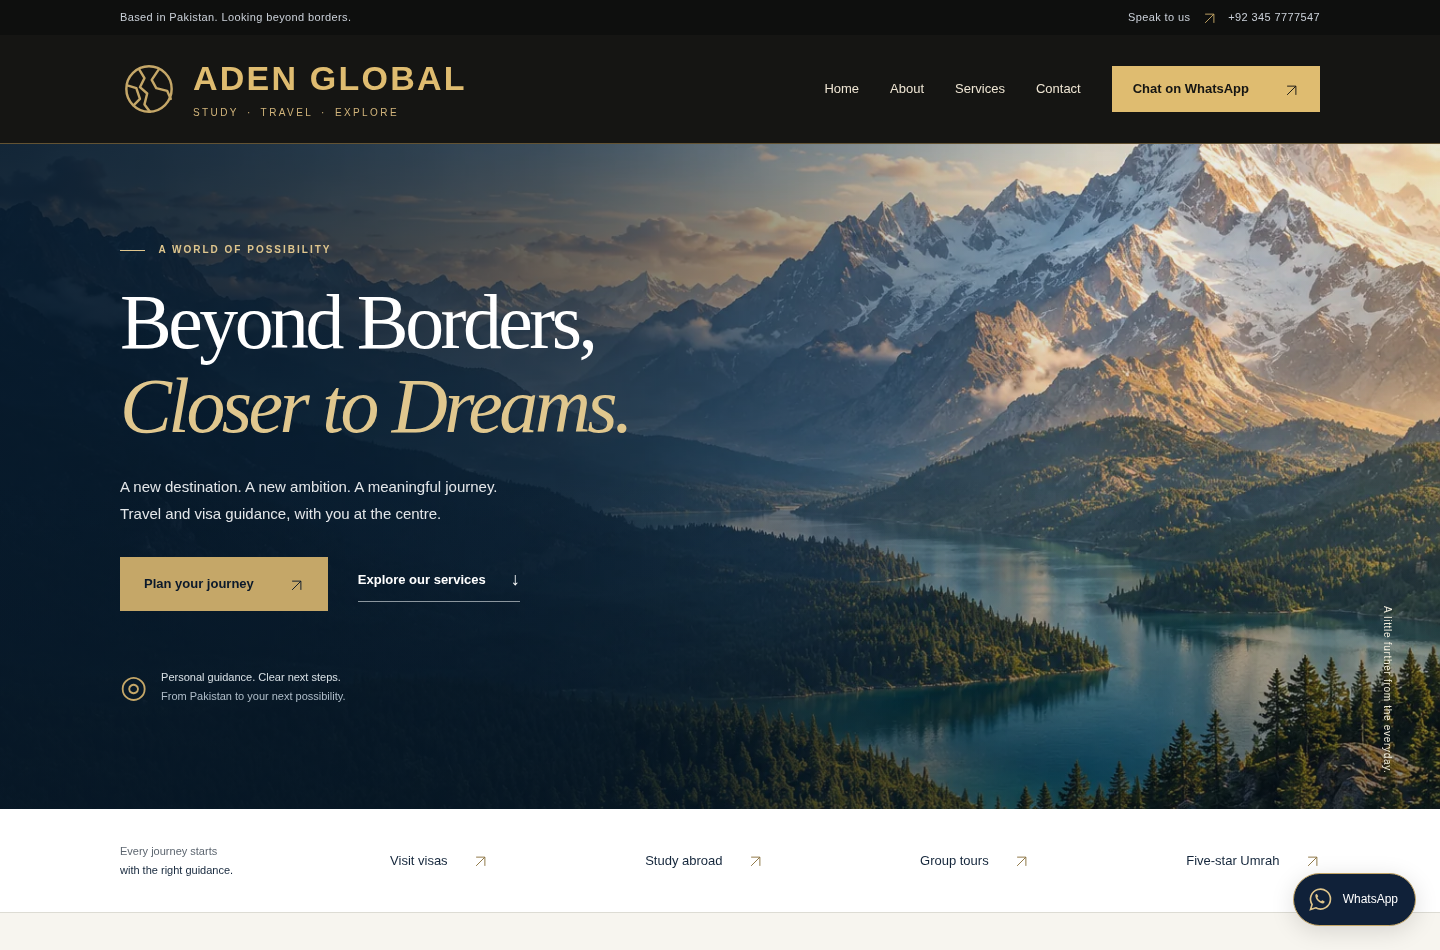
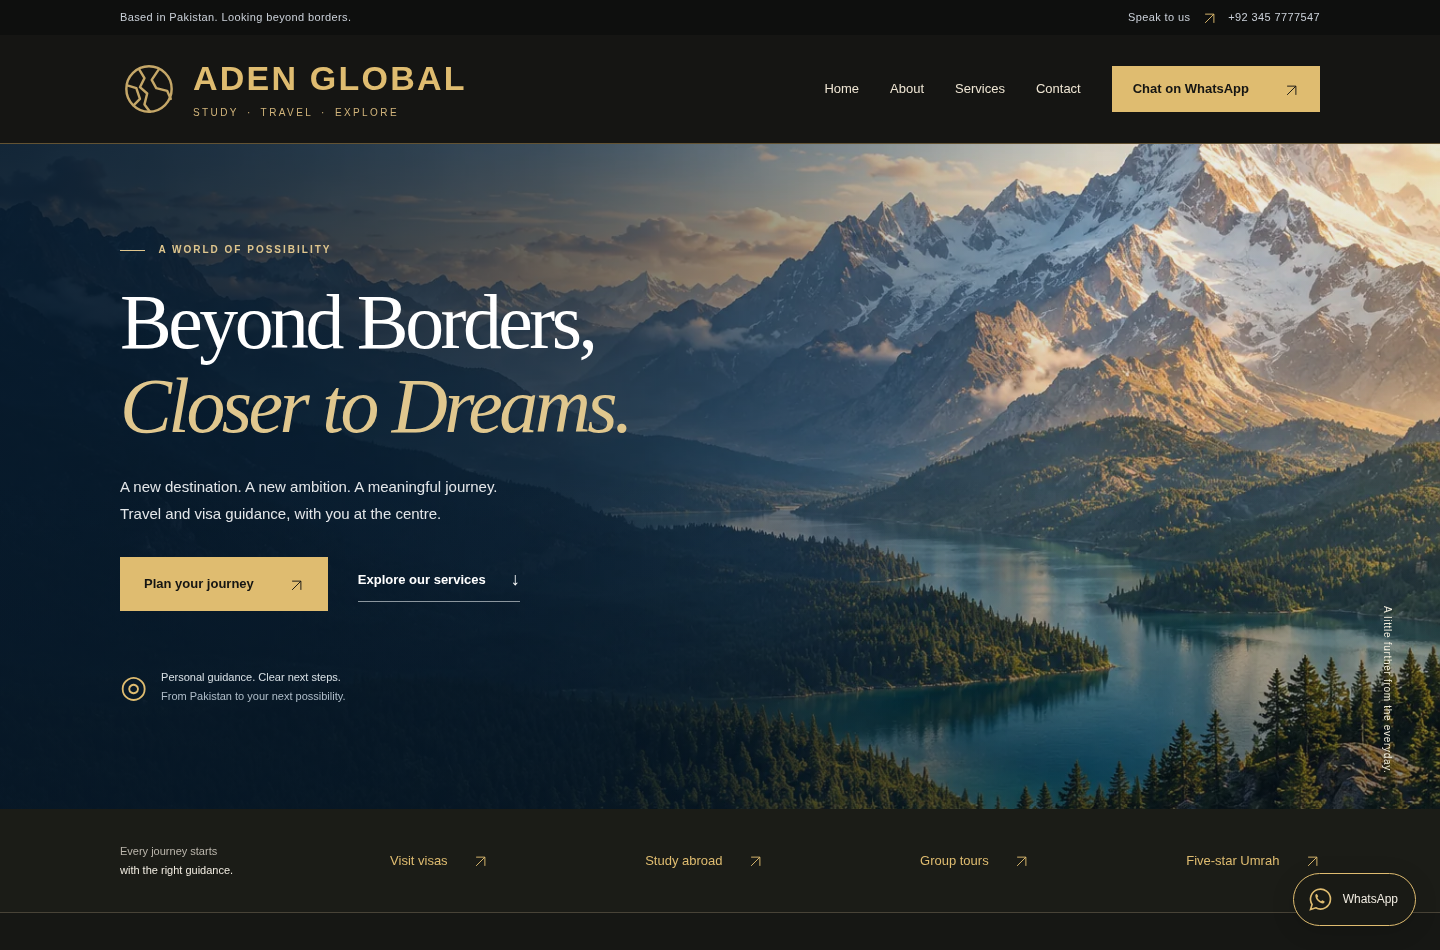
Apply consistent black and gold theme across services and lower sections

Changed region(s): [[0.0, 0.8242, 1.0, 1.0], [0.0625, 0.58, 0.25, 0.6411]]

diff --git a/artifacts/adenglobal-preview.html b/artifacts/adenglobal-preview.html
@@ -26,6 +26,96 @@
 @media(max-width:1000px){.header-inner{height:90px;gap:15px}.header .brand>span{font-size:29px}.header .brand img{width:50px;height:50px}.menu-toggle{display:flex;flex-shrink:0;flex-direction:column;justify-content:center;gap:6px;width:44px;height:44px;background:transparent;border:1px solid #8b7445;padding:11px}.menu-toggle span{height:1px;width:20px;background:#dfbc70;transition:transform .2s}.menu-toggle[aria-expanded=true] span:first-child{transform:translateY(3.5px) rotate(45deg)}.menu-toggle[aria-expanded=true] span:last-child{transform:translateY(-3.5px) rotate(-45deg)}.header nav{display:none;position:absolute;top:90px;left:0;right:0;padding:18px 20px 24px;background:#151513;border-bottom:1px solid #635333;box-shadow:0 12px 18px #0003}.header nav.is-open{display:flex;flex-direction:column;align-items:stretch;gap:6px}.header nav>a:not(.button){padding:12px}.header nav .button{margin-top:7px}.no-js .header-inner{height:auto;flex-wrap:wrap;padding-top:15px}.no-js .header nav{position:static;display:flex;flex-wrap:wrap;padding:10px 0;box-shadow:none;border:0;gap:16px}.no-js .header nav .button{display:none}}
 @media(max-width:560px){.header-inner{height:86px;gap:12px}.header nav{top:86px}.header .brand{gap:11px}.header .brand img{width:43px;height:43px}.header .brand>span{font-size:25px;letter-spacing:.035em}.header .brand small{font-size:8px;letter-spacing:.12em;margin-top:7px}.hero h1{font-size:clamp(36px,10.6vw,49px)}}
 @media(max-width:370px){.header .brand{gap:8px}.header .brand img{width:34px;height:34px}.header .brand>span{font-size:21px}.header .brand small{font-size:7px;letter-spacing:.07em}.header-inner{gap:10px}.hero h1{font-size:36px}}
+/* Shared black-and-gold theme: all lower sections use the same brand palette. */
+:root {
+  --navy: #181815;
+  --deep: #10110f;
+  --gold: #dfbc70;
+  --cream: #161714;
+  --ink: #f1ece1;
+  --muted: #bbb6ac;
+  --line: #484337;
+  --white: #1e1f1a;
+  --surface: #22231d;
+}
+body { color-scheme: dark; }
+:focus-visible { outline-color: #f0d395; }
+::selection { background: #dfbc70; color: #151513; }
+.skip-link { background: #dfbc70; color: #151513; }
+.eyebrow, h2 em, .detail-index { color: var(--gold); }
+.section-heading > p,
+.about-copy > p:not(.eyebrow),
+.service-detail > div > p,
+.faq-grid > div > p:not(.eyebrow),
+.contact-copy > p:not(.eyebrow) { color: var(--muted); }
+.button { background: var(--gold); border-color: var(--gold); color: #151513; }
+.button:hover { background: #f0d395; border-color: #f0d395; }
+.button-gold { background: var(--gold); border-color: var(--gold); }
+.button-gold:hover { background: #f0d395; }
+.text-link { color: var(--gold); border-color: #827044; }
+.text-link:hover { color: #f3dca7; border-color: #f3dca7; }
+.service-strip { background: #1b1c17; border-color: var(--line); }
+.service-strip strong { color: var(--ink); }
+.service-strip a, .service-strip a span { color: var(--gold); }
+.service-strip a:hover { color: #f3dca7; }
+.service-card {
+  background: #1e1f1a;
+  border-color: var(--line);
+  border-top: 2px solid #a78b50;
+}
+.service-card:hover {
+  background: #27271f;
+  border-color: var(--gold);
+  box-shadow: 0 12px 28px #0002;
+}
+.service-icon, .service-card h3, .card-link, .card-link span { color: var(--gold); }
+.card-number { color: #bbb39f; }
+.service-card p { color: var(--muted); }
+.card-link { border-color: var(--line); }
+.card-link:hover { color: #f3dca7; }
+.about-section, .faq-section { background: #1c1d18; }
+.about-art { background: #11120f; border: 1px solid #695a36; }
+.about-art em, .about-art .art-top, .art-bottom { color: var(--gold); }
+.art-bottom { border-color: var(--line); }
+.orbit { border-color: #4b432e; }
+.founder-monogram { color: var(--gold); border-color: #8a7547; }
+.founder small { color: var(--muted); }
+.service-detail h3 { color: var(--gold); }
+.detail-support { background: var(--surface); border-left: 2px solid #a78b50; }
+.detail-support h4 { color: #edcf90; }
+.detail-support li { color: #d0cbc0; }
+.detail-support li:before { color: var(--gold); }
+.detail-support .detail-note { color: var(--muted); border-color: var(--line); }
+.process-section { background: #11120f; border-block: 1px solid var(--line); }
+.process-section h2 em, .process-grid span { color: var(--gold); }
+.process-section .section-heading > p, .process-grid p, .process-footnote { color: var(--muted); }
+.process-grid > div, .process-footnote { border-color: var(--line); }
+.process-grid h3 { color: #edcf90; }
+summary:after { color: var(--gold); }
+summary:hover, details[open] summary { color: #edcf90; }
+.faq-list details p { color: #cbc5b9; }
+.contact-phone, .contact-phone span, .contact-tip > span { color: var(--gold); }
+.contact-meta, .contact-tip p { color: var(--muted); }
+.enquiry-form { background: #1e1f1a; border-color: #71603b; }
+.enquiry-form h3 { color: #edcf90; }
+.form-intro, .field label span, .form-privacy, .form-explainer { color: var(--muted); }
+.field label { color: #f1ece1; }
+.field input, .field select, .field textarea {
+  background: #141511;
+  color: #f1ece1;
+  border-color: #776b50;
+}
+.field input::placeholder, .field textarea::placeholder { color: #aaa596; }
+.field input:focus, .field select:focus, .field textarea:focus { border-color: var(--gold); }
+.form-status { color: #e8d5ae; }
+.form-status a, .enquiry-form noscript a { color: var(--gold); }
+.footer { background: #0e0f0c; color: #e6ddca; border-top: 1px solid var(--line); }
+.footer .brand small { color: var(--gold); }
+.footer-top p, .footer-bottom { color: var(--muted); }
+.footer-bottom { border-color: var(--line); }
+.floating-whatsapp { background: #191a15; color: #f1ece1; border-color: var(--gold); }
+.floating-whatsapp svg { color: var(--gold); }
+.floating-whatsapp:hover { background: #333020; }
 @media(prefers-reduced-motion:reduce){html{scroll-behavior:auto}*,*:before,*:after{transition:none!important;animation:none!important}}
 @media print{.utility,.header,.floating-whatsapp,.hero-actions,.enquiry-form,.footer nav{display:none}.hero{min-height:0;background:white;color:var(--ink)}.hero-image,.hero-caption,.hero:after{display:none}.hero h1 em,.hero-intro,.hero-note,.hero-note strong{color:var(--ink)}.section{padding:25px 0}.container{width:100%}.service-grid{grid-template-columns:repeat(2,1fr)}.about-grid,.contact-grid,.faq-grid{display:block}.about-art{display:none}.process-section{background:white;color:var(--ink)}.process-grid p,.process-section .section-heading>p,.process-footnote{color:var(--ink)}details>p{display:block}.service-detail{break-inside:avoid}.footer{background:white;color:var(--ink);padding:20px 0}}
 </style>

diff --git a/styles.css b/styles.css
@@ -14,5 +14,95 @@
 @media(max-width:1000px){.header-inner{height:90px;gap:15px}.header .brand>span{font-size:29px}.header .brand img{width:50px;height:50px}.menu-toggle{display:flex;flex-shrink:0;flex-direction:column;justify-content:center;gap:6px;width:44px;height:44px;background:transparent;border:1px solid #8b7445;padding:11px}.menu-toggle span{height:1px;width:20px;background:#dfbc70;transition:transform .2s}.menu-toggle[aria-expanded=true] span:first-child{transform:translateY(3.5px) rotate(45deg)}.menu-toggle[aria-expanded=true] span:last-child{transform:translateY(-3.5px) rotate(-45deg)}.header nav{display:none;position:absolute;top:90px;left:0;right:0;padding:18px 20px 24px;background:#151513;border-bottom:1px solid #635333;box-shadow:0 12px 18px #0003}.header nav.is-open{display:flex;flex-direction:column;align-items:stretch;gap:6px}.header nav>a:not(.button){padding:12px}.header nav .button{margin-top:7px}.no-js .header-inner{height:auto;flex-wrap:wrap;padding-top:15px}.no-js .header nav{position:static;display:flex;flex-wrap:wrap;padding:10px 0;box-shadow:none;border:0;gap:16px}.no-js .header nav .button{display:none}}
 @media(max-width:560px){.header-inner{height:86px;gap:12px}.header nav{top:86px}.header .brand{gap:11px}.header .brand img{width:43px;height:43px}.header .brand>span{font-size:25px;letter-spacing:.035em}.header .brand small{font-size:8px;letter-spacing:.12em;margin-top:7px}.hero h1{font-size:clamp(36px,10.6vw,49px)}}
 @media(max-width:370px){.header .brand{gap:8px}.header .brand img{width:34px;height:34px}.header .brand>span{font-size:21px}.header .brand small{font-size:7px;letter-spacing:.07em}.header-inner{gap:10px}.hero h1{font-size:36px}}
+/* Shared black-and-gold theme: all lower sections use the same brand palette. */
+:root {
+  --navy: #181815;
+  --deep: #10110f;
+  --gold: #dfbc70;
+  --cream: #161714;
+  --ink: #f1ece1;
+  --muted: #bbb6ac;
+  --line: #484337;
+  --white: #1e1f1a;
+  --surface: #22231d;
+}
+body { color-scheme: dark; }
+:focus-visible { outline-color: #f0d395; }
+::selection { background: #dfbc70; color: #151513; }
+.skip-link { background: #dfbc70; color: #151513; }
+.eyebrow, h2 em, .detail-index { color: var(--gold); }
+.section-heading > p,
+.about-copy > p:not(.eyebrow),
+.service-detail > div > p,
+.faq-grid > div > p:not(.eyebrow),
+.contact-copy > p:not(.eyebrow) { color: var(--muted); }
+.button { background: var(--gold); border-color: var(--gold); color: #151513; }
+.button:hover { background: #f0d395; border-color: #f0d395; }
+.button-gold { background: var(--gold); border-color: var(--gold); }
+.button-gold:hover { background: #f0d395; }
+.text-link { color: var(--gold); border-color: #827044; }
+.text-link:hover { color: #f3dca7; border-color: #f3dca7; }
+.service-strip { background: #1b1c17; border-color: var(--line); }
+.service-strip strong { color: var(--ink); }
+.service-strip a, .service-strip a span { color: var(--gold); }
+.service-strip a:hover { color: #f3dca7; }
+.service-card {
+  background: #1e1f1a;
+  border-color: var(--line);
+  border-top: 2px solid #a78b50;
+}
+.service-card:hover {
+  background: #27271f;
+  border-color: var(--gold);
+  box-shadow: 0 12px 28px #0002;
+}
+.service-icon, .service-card h3, .card-link, .card-link span { color: var(--gold); }
+.card-number { color: #bbb39f; }
+.service-card p { color: var(--muted); }
+.card-link { border-color: var(--line); }
+.card-link:hover { color: #f3dca7; }
+.about-section, .faq-section { background: #1c1d18; }
+.about-art { background: #11120f; border: 1px solid #695a36; }
+.about-art em, .about-art .art-top, .art-bottom { color: var(--gold); }
+.art-bottom { border-color: var(--line); }
+.orbit { border-color: #4b432e; }
+.founder-monogram { color: var(--gold); border-color: #8a7547; }
+.founder small { color: var(--muted); }
+.service-detail h3 { color: var(--gold); }
+.detail-support { background: var(--surface); border-left: 2px solid #a78b50; }
+.detail-support h4 { color: #edcf90; }
+.detail-support li { color: #d0cbc0; }
+.detail-support li:before { color: var(--gold); }
+.detail-support .detail-note { color: var(--muted); border-color: var(--line); }
+.process-section { background: #11120f; border-block: 1px solid var(--line); }
+.process-section h2 em, .process-grid span { color: var(--gold); }
+.process-section .section-heading > p, .process-grid p, .process-footnote { color: var(--muted); }
+.process-grid > div, .process-footnote { border-color: var(--line); }
+.process-grid h3 { color: #edcf90; }
+summary:after { color: var(--gold); }
+summary:hover, details[open] summary { color: #edcf90; }
+.faq-list details p { color: #cbc5b9; }
+.contact-phone, .contact-phone span, .contact-tip > span { color: var(--gold); }
+.contact-meta, .contact-tip p { color: var(--muted); }
+.enquiry-form { background: #1e1f1a; border-color: #71603b; }
+.enquiry-form h3 { color: #edcf90; }
+.form-intro, .field label span, .form-privacy, .form-explainer { color: var(--muted); }
+.field label { color: #f1ece1; }
+.field input, .field select, .field textarea {
+  background: #141511;
+  color: #f1ece1;
+  border-color: #776b50;
+}
+.field input::placeholder, .field textarea::placeholder { color: #aaa596; }
+.field input:focus, .field select:focus, .field textarea:focus { border-color: var(--gold); }
+.form-status { color: #e8d5ae; }
+.form-status a, .enquiry-form noscript a { color: var(--gold); }
+.footer { background: #0e0f0c; color: #e6ddca; border-top: 1px solid var(--line); }
+.footer .brand small { color: var(--gold); }
+.footer-top p, .footer-bottom { color: var(--muted); }
+.footer-bottom { border-color: var(--line); }
+.floating-whatsapp { background: #191a15; color: #f1ece1; border-color: var(--gold); }
+.floating-whatsapp svg { color: var(--gold); }
+.floating-whatsapp:hover { background: #333020; }
 @media(prefers-reduced-motion:reduce){html{scroll-behavior:auto}*,*:before,*:after{transition:none!important;animation:none!important}}
 @media print{.utility,.header,.floating-whatsapp,.hero-actions,.enquiry-form,.footer nav{display:none}.hero{min-height:0;background:white;color:var(--ink)}.hero-image,.hero-caption,.hero:after{display:none}.hero h1 em,.hero-intro,.hero-note,.hero-note strong{color:var(--ink)}.section{padding:25px 0}.container{width:100%}.service-grid{grid-template-columns:repeat(2,1fr)}.about-grid,.contact-grid,.faq-grid{display:block}.about-art{display:none}.process-section{background:white;color:var(--ink)}.process-grid p,.process-section .section-heading>p,.process-footnote{color:var(--ink)}details>p{display:block}.service-detail{break-inside:avoid}.footer{background:white;color:var(--ink);padding:20px 0}}

diff --git a/docs/CONTENT-NOTES.md b/docs/CONTENT-NOTES.md
@@ -10,4 +10,6 @@ The reference tagline includes WORK. The site uses STUDY · TRAVEL · EXPLORE to
 
 The hero is an AI-generated illustrative landscape, not an advertised itinerary or a specific destination. All assets are local; no external fonts or images are requested at runtime.
 
+The requested black-and-gold palette continues through the header, service navigation, service cards, detailed service panels, About, enquiry process, FAQs, contact form and footer. Gold is used for emphasis and calls to action, with warm off-white text for readable body copy. Shared theme variables and overrides are labelled in styles.css.
+
 No owned domain or domain-based email is assumed. Canonical and absolute social image URLs can be added after domain confirmation. No search ranking is promised.

diff --git a/docs/VALIDATION.md b/docs/VALIDATION.md
@@ -18,6 +18,7 @@ Passed:
 - No-JavaScript state shows a direct WhatsApp link and disables form submission.
 - No JavaScript errors or failing local assets in the browser run.
 - Desktop and mobile screenshots visually reviewed.
+- Black-and-gold theme: expanded FAQs on desktop and mobile, plus the open mobile menu, also passed automated WCAG A/AA checks without violations.
 
 The test intercepts WhatsApp navigation. No enquiry was sent, and no message delivery or recipient response is claimed. Actual WhatsApp app handoff depends on the visitor's device, installed app/login and network.
 

diff --git a/README.md b/README.md
@@ -1,6 +1,6 @@
 # ADEN GLOBAL — static business website
 
-Responsive English website: Home, About, four detailed services, enquiry process, FAQs and Contact. Production needs only static shared hosting. No Node server, database, API or build is required.
+Responsive black-and-gold English website: Home, About, four detailed services, enquiry process, FAQs and Contact. Production needs only static shared hosting. No Node server, database, API or build is required.
 
 ## Preview
 
